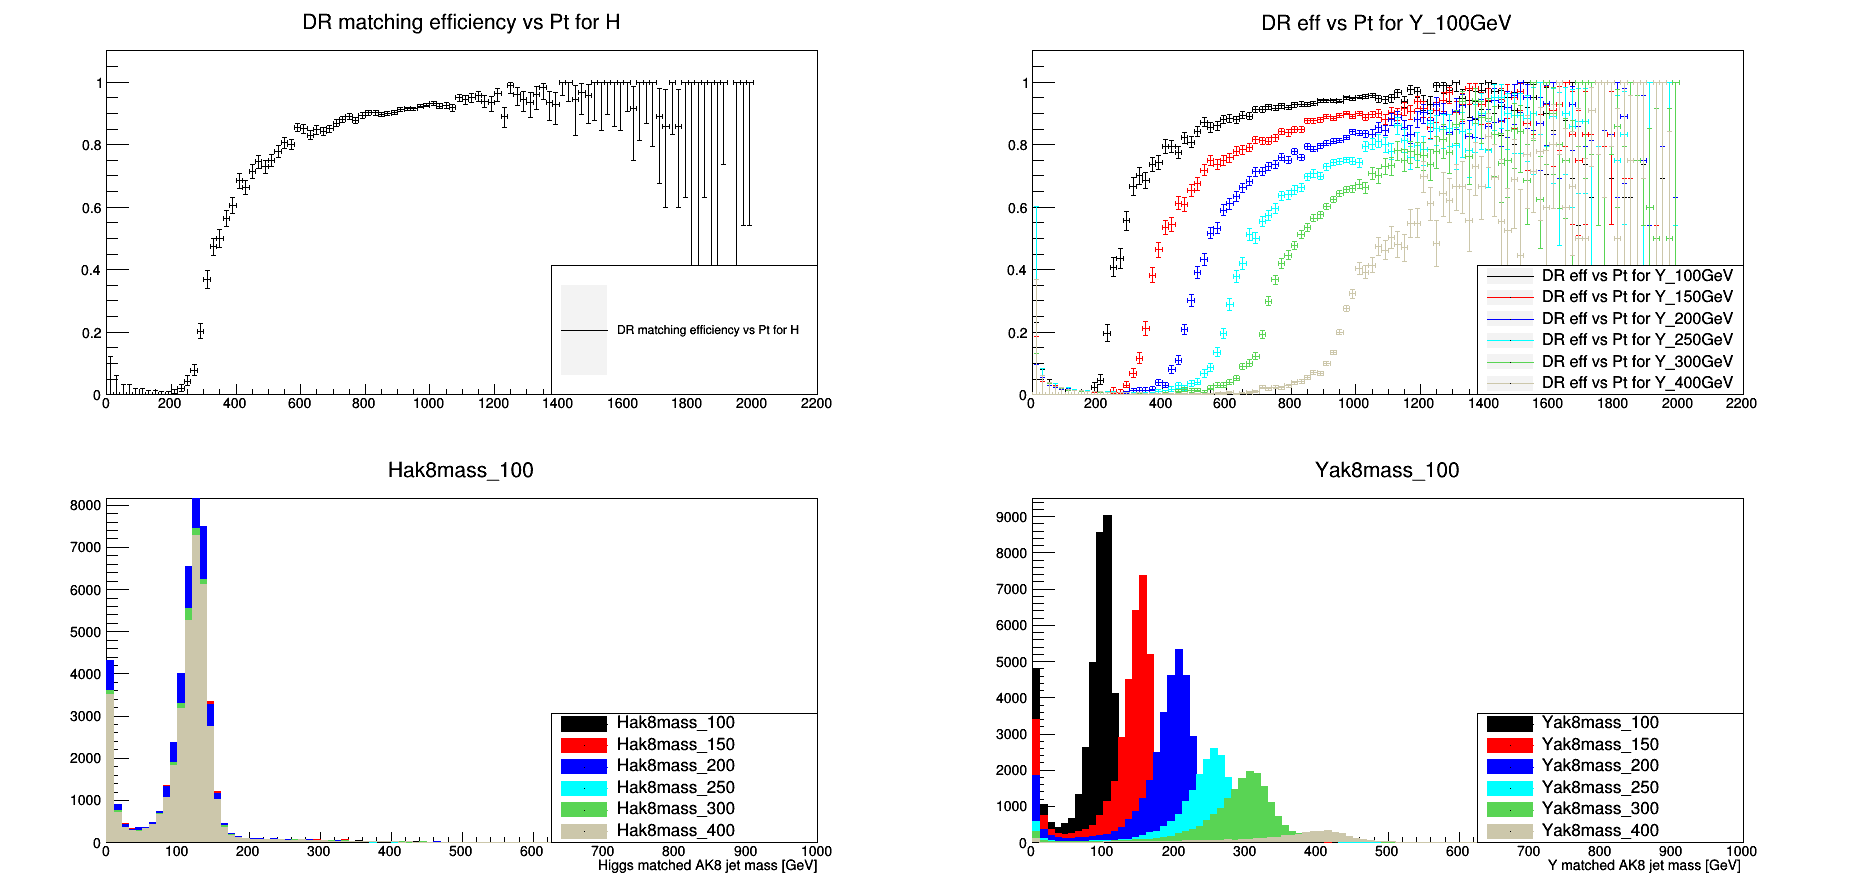
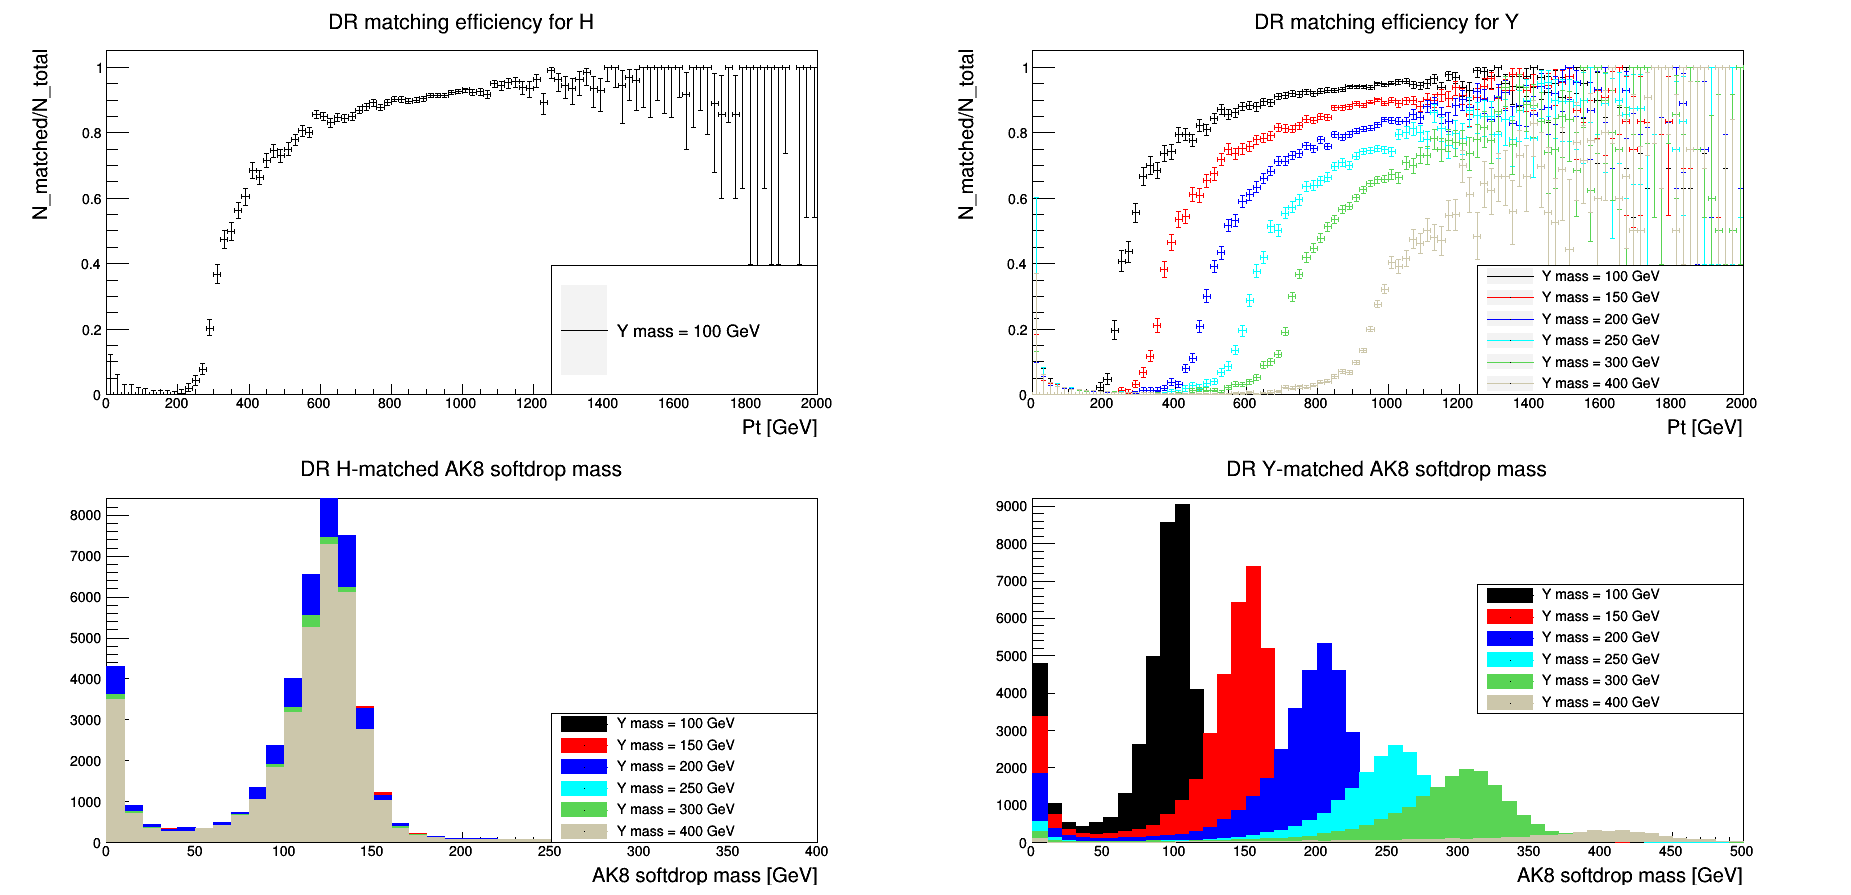
Fixed legend

diff --git a/DR_plotting.py b/DR_plotting.py
@@ -39,16 +39,25 @@ def singleCanvas(inputfile,outputFile,massPoints):
     c = r.TCanvas("c","c",1500,1200)
     r.gStyle.SetOptStat(0)
     c.Divide(2,2)
-
+#---Setting up the axes range, label and plot titles---#
     h1Dummy = r.TH2F("h1Dummy","DR matching efficiency for H",100,0.,2000.,100,0.,1.05)
-    h2Dummy = r.TH2F("h2Dummy","DR matching eff for Y",100,0.,2000.,100,0.,1.05)
+    h2Dummy = r.TH2F("h2Dummy","DR matching efficiency for Y",100,0.,2000.,100,0.,1.05)
     h3Dummy = r.TH2F("h3Dummy","DR H-matched AK8 softdrop mass",100,0.,400.,100,0.,8400.)
     h4Dummy = r.TH2F("h4Dummy","DR Y-matched AK8 softdrop mass",100,0.,500.,100,0.,9200.)
     h1Dummy.SetXTitle("Pt [GeV]")
     h2Dummy.SetXTitle("Pt [GeV]")
     h1Dummy.SetYTitle("N_matched/N_total")
     h2Dummy.SetYTitle("N_matched/N_total")
-
+    h3Dummy.SetXTitle("AK8 softdrop mass [GeV]")
+    h4Dummy.SetXTitle("AK8 softdrop mass [GeV]")
+    h1Dummy.GetXaxis().SetTitleSize(0.05)
+    h2Dummy.GetXaxis().SetTitleSize(0.05)
+    h3Dummy.GetXaxis().SetTitleSize(0.05)
+    h4Dummy.GetXaxis().SetTitleSize(0.05)
+    h1Dummy.GetYaxis().SetTitleSize(0.05)
+    h2Dummy.GetYaxis().SetTitleSize(0.05)
+    h3Dummy.GetYaxis().SetTitleSize(0.05)
+    h4Dummy.GetYaxis().SetTitleSize(0.05)
     c.cd(1)
     h1Dummy.Draw()
     c.cd(2)
@@ -57,6 +66,7 @@ def singleCanvas(inputfile,outputFile,massPoints):
     h3Dummy.Draw()
     c.cd(4)
     h4Dummy.Draw()
+#-----------------------------------------------------#
     for i,massPoint in enumerate(massPoints):
  
         colorIdx = i%nColors
@@ -67,10 +77,10 @@ def singleCanvas(inputfile,outputFile,massPoints):
         h3      = inFile.Get("Hak8mass_{0}".format(massPoint))
         h4      = inFile.Get("Yak8mass_{0}".format(massPoint))
 
-        h1.SetTitle("Heffiencies_{0}".format(massPoint))
-        h2.SetTitle("DR eff vs Pt for Y_{0}GeV".format(massPoint))
-        h3.SetTitle("Hak8mass_{0}".format(massPoint))
-        h4.SetTitle("Yak8mass_{0}".format(massPoint))
+        h1.SetTitle("Y mass = {0} GeV".format(massPoint))
+        h2.SetTitle("Y mass = {0} GeV".format(massPoint))
+        h3.SetTitle("Y mass = {0} GeV".format(massPoint))
+        h4.SetTitle("Y mass = {0} GeV".format(massPoint))
 
         h1.SetLineColor(color) 
         h2.SetLineColor(color) 
@@ -79,10 +89,10 @@ def singleCanvas(inputfile,outputFile,massPoints):
         #h1.SetFillColor(color) 
         #h2.SetFillColor(color) 
         h3.SetFillColor(color) 
-        h4.SetFillColor(color) 
-       
-        c.cd(1)
-        h1.Draw("SAME")
+        h4.SetFillColor(color)
+        if(i==0):
+            c.cd(1)
+            h1.Draw("SAME")
         c.cd(2)
         h2.Draw("SAME")
         c.cd(3)
@@ -92,10 +102,35 @@ def singleCanvas(inputfile,outputFile,massPoints):
         c.Modified()
         c.Update()
 
-    c.cd(1).BuildLegend(0.6,0.1,0.9,0.4)
-    c.cd(2).BuildLegend(0.6,0.1,0.9,0.4)
-    c.cd(3).BuildLegend(0.6,0.1,0.9,0.4)
-    c.cd(4).BuildLegend(0.6,0.1,0.9,0.4)
+    c.cd(1)
+    legend1 = r.TLegend(0.6,0.1,0.9,0.4)
+    legend1.AddEntry("effMatchH_{0}".format(massPoints[0]))
+    c.cd(2)
+    legend2 = r.TLegend(0.6,0.1,0.9,0.4)
+    for massPoint in massPoints:
+        legend2.AddEntry("effMatchY_{0}".format(massPoint))
+    c.cd(3)
+    legend3 = r.TLegend(0.6,0.1,0.9,0.4)
+    for massPoint in massPoints:
+        legend3.AddEntry("Hak8mass_{0}".format(massPoint))
+    c.cd(4)
+    legend4 = r.TLegend(0.6,0.4,0.9,0.7)
+    for massPoint in massPoints:
+        legend4.AddEntry("Yak8mass_{0}".format(massPoint))
+
+    c.cd(1)
+    legend1.Draw()
+    c.cd(2)
+    legend2.Draw()
+    c.cd(3)
+    legend3.Draw()
+    c.cd(4)
+    legend4.Draw()
+
+    # c.cd(1).BuildLegend(0.6,0.1,0.9,0.4)
+    # c.cd(2).BuildLegend(0.6,0.1,0.9,0.4)
+    # c.cd(3).BuildLegend(0.6,0.1,0.9,0.4)
+    # c.cd(4).BuildLegend(0.6,0.1,0.9,0.4)
 
 
 
